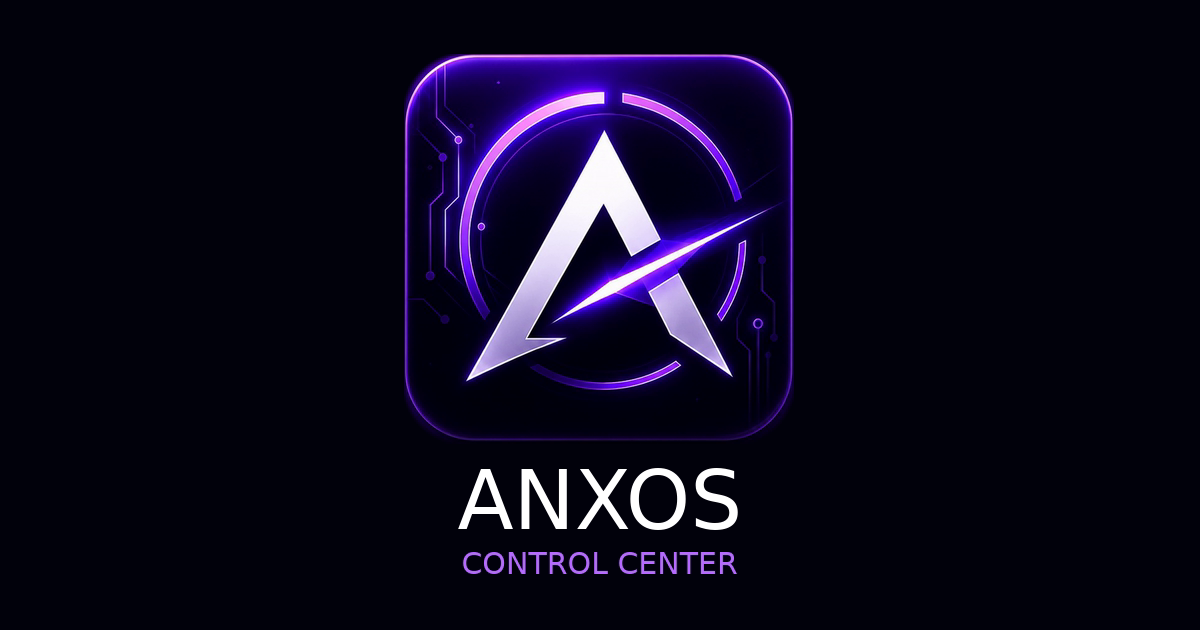
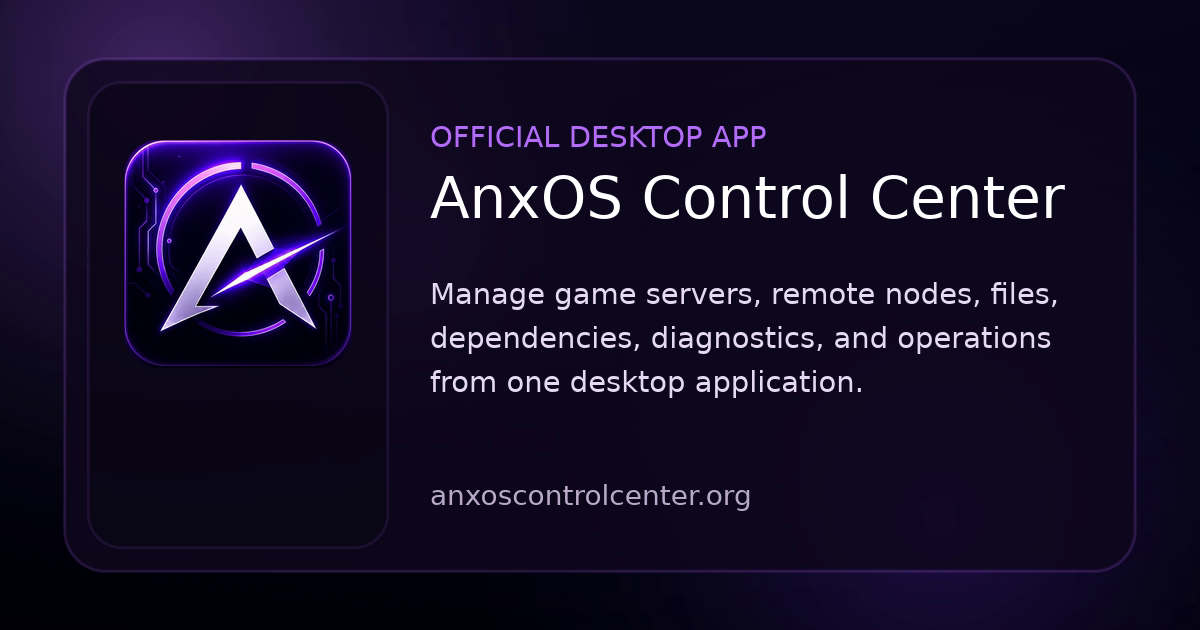
feat: improve social preview branding

diff --git a/scripts/generate-linux-icons.js b/scripts/generate-linux-icons.js
@@ -1,6 +1,7 @@
 const fs = require("fs");
 const path = require("path");
 const zlib = require("zlib");
+const crypto = require("crypto");
 const { spawnSync } = require("child_process");
 
 const REPO_ROOT = path.join(__dirname, "..");
@@ -109,6 +110,113 @@ function applyMask(pixels, size, mask) {
   return output;
 }
 
+function clamp(value, min, max) {
+  return Math.min(max, Math.max(min, value));
+}
+
+function mix(a, b, amount) {
+  return Math.round(a + ((b - a) * amount));
+}
+
+function blendPixel(pixels, width, x, y, color) {
+  if (x < 0 || y < 0 || x >= width) return;
+  const offset = (y * width + x) * 4;
+  const alpha = color[3] / 255;
+  pixels[offset] = mix(pixels[offset], color[0], alpha);
+  pixels[offset + 1] = mix(pixels[offset + 1], color[1], alpha);
+  pixels[offset + 2] = mix(pixels[offset + 2], color[2], alpha);
+  pixels[offset + 3] = 255;
+}
+
+function roundedRectCoverage(x, y, rect, radius, feather) {
+  const px = x + 0.5;
+  const py = y + 0.5;
+  const cx = clamp(px, rect.x + radius, rect.x + rect.width - radius);
+  const cy = clamp(py, rect.y + radius, rect.y + rect.height - radius);
+  const outside = Math.hypot(px - cx, py - cy) - radius;
+  if (outside <= -feather) return 1;
+  if (outside >= feather) return 0;
+  return 1 - ((outside + feather) / (feather * 2));
+}
+
+function drawRoundedRect(pixels, width, height, rect, radius, fill, stroke, strokeWidth) {
+  const minX = Math.max(0, Math.floor(rect.x - strokeWidth - 2));
+  const minY = Math.max(0, Math.floor(rect.y - strokeWidth - 2));
+  const maxX = Math.min(width - 1, Math.ceil(rect.x + rect.width + strokeWidth + 2));
+  const maxY = Math.min(height - 1, Math.ceil(rect.y + rect.height + strokeWidth + 2));
+  for (let y = minY; y <= maxY; y += 1) {
+    for (let x = minX; x <= maxX; x += 1) {
+      const outer = roundedRectCoverage(x, y, rect, radius, 1.5);
+      if (!outer) continue;
+      const innerRect = {
+        x: rect.x + strokeWidth,
+        y: rect.y + strokeWidth,
+        width: rect.width - (strokeWidth * 2),
+        height: rect.height - (strokeWidth * 2),
+      };
+      const inner = roundedRectCoverage(x, y, innerRect, Math.max(0, radius - strokeWidth), 1.5);
+      if (outer > inner) blendPixel(pixels, width, x, y, [...stroke.slice(0, 3), Math.round(stroke[3] * (outer - inner))]);
+      if (inner) blendPixel(pixels, width, x, y, [...fill.slice(0, 3), Math.round(fill[3] * inner)]);
+    }
+  }
+}
+
+function drawRadialGlow(pixels, width, height, centerX, centerY, radius, color, opacity) {
+  const minX = Math.max(0, Math.floor(centerX - radius));
+  const minY = Math.max(0, Math.floor(centerY - radius));
+  const maxX = Math.min(width - 1, Math.ceil(centerX + radius));
+  const maxY = Math.min(height - 1, Math.ceil(centerY + radius));
+  for (let y = minY; y <= maxY; y += 1) {
+    for (let x = minX; x <= maxX; x += 1) {
+      const distance = Math.hypot(x - centerX, y - centerY) / radius;
+      if (distance >= 1) continue;
+      const alpha = Math.round(opacity * ((1 - distance) ** 2) * 255);
+      blendPixel(pixels, width, x, y, [...color, alpha]);
+    }
+  }
+}
+
+function createSocialBackground(width, height) {
+  const pixels = Buffer.alloc(width * height * 4);
+  for (let y = 0; y < height; y += 1) {
+    for (let x = 0; x < width; x += 1) {
+      const offset = (y * width + x) * 4;
+      const vignette = Math.hypot((x - width / 2) / width, (y - height / 2) / height);
+      pixels[offset] = clamp(Math.round(3 + (10 * (1 - y / height)) - (vignette * 6)), 0, 255);
+      pixels[offset + 1] = clamp(Math.round(3 + (5 * (1 - y / height)) - (vignette * 4)), 0, 255);
+      pixels[offset + 2] = clamp(Math.round(13 + (20 * (1 - y / height)) - (vignette * 10)), 0, 255);
+      pixels[offset + 3] = 255;
+    }
+  }
+
+  drawRadialGlow(pixels, width, height, 160, 80, 520, [182, 108, 255], 0.32);
+  drawRadialGlow(pixels, width, height, 940, 520, 540, [124, 60, 255], 0.24);
+  drawRadialGlow(pixels, width, height, 415, 250, 250, [165, 80, 255], 0.2);
+
+  drawRoundedRect(
+    pixels,
+    width,
+    height,
+    { x: 64, y: 58, width: 1072, height: 514 },
+    42,
+    [15, 8, 30, 210],
+    [132, 74, 190, 120],
+    2,
+  );
+  drawRoundedRect(
+    pixels,
+    width,
+    height,
+    { x: 88, y: 82, width: 300, height: 466 },
+    34,
+    [8, 5, 18, 130],
+    [182, 108, 255, 90],
+    1,
+  );
+
+  return createPng(width, height, pixels);
+}
+
 function makeAppPng(size) {
   const raw = cropRaw(APP_CROP, size);
   const radius = size * 0.155;
@@ -150,22 +258,43 @@ function pngToIco(entries) {
 }
 
 function createOpenGraphImage(appIconPath, outputPath) {
+  const backgroundPath = path.join(WEBSITE_ASSET_DIR, ".social-preview-background.png");
+  fs.writeFileSync(backgroundPath, createSocialBackground(1200, 630));
   runFfmpeg([
     "-v", "error",
-    "-f", "lavfi",
-    "-i", "color=c=0x02030b:s=1200x630",
+    "-i", backgroundPath,
     "-i", appIconPath,
     "-filter_complex",
     [
-      "[1:v]scale=390:390:flags=lanczos[icon]",
-      "[0:v][icon]overlay=405:55",
-      "drawtext=text='ANXOS':fontcolor=white:fontsize=82:x=(w-text_w)/2:y=468",
-      "drawtext=text='CONTROL CENTER':fontcolor=0xb66cff:fontsize=30:x=(w-text_w)/2:y=552",
+      "[1:v]scale=228:228:flags=lanczos[logo]",
+      "[0:v][logo]overlay=124:140",
+      "drawtext=text='OFFICIAL DESKTOP APP':font='DejaVu Sans':fontcolor=0xb66cff:fontsize=29:x=430:y=126",
+      "drawtext=text='AnxOS Control Center':font='DejaVu Sans':fontcolor=white:fontsize=58:x=430:y=174",
+      "drawtext=text='Manage game servers, remote nodes, files,':font='DejaVu Sans':fontcolor=0xe7dcf4:fontsize=29:x=430:y=282",
+      "drawtext=text='dependencies, diagnostics, and operations':font='DejaVu Sans':fontcolor=0xe7dcf4:fontsize=29:x=430:y=326",
+      "drawtext=text='from one desktop application.':font='DejaVu Sans':fontcolor=0xe7dcf4:fontsize=29:x=430:y=370",
+      "drawtext=text='anxoscontrolcenter.org':font='DejaVu Sans':fontcolor=0xb9abc8:fontsize=28:x=430:y=484",
     ].join(","),
     "-frames:v", "1",
     "-y",
     outputPath,
   ], "Open Graph image");
+  fs.rmSync(backgroundPath, { force: true });
+}
+
+function updateSocialPreviewMetadata(outputPath) {
+  const hash = crypto.createHash("sha256").update(fs.readFileSync(outputPath)).digest("hex").slice(0, 12);
+  const versionedPath = `assets/social-preview.png?v=${hash}`;
+  const files = [
+    path.join(REPO_ROOT, "website", "index.html"),
+    path.join(REPO_ROOT, "website", "release-notes.html"),
+  ];
+  for (const file of files) {
+    const source = fs.readFileSync(file, "utf8");
+    const updated = source.replace(/assets\/social-preview\.png(?:\?v=[a-f0-9]+)?/g, versionedPath);
+    fs.writeFileSync(file, updated);
+  }
+  return versionedPath;
 }
 
 function writeSvgFromPng(pngPath, svgPath) {
@@ -209,6 +338,9 @@ fs.writeFileSync(path.join(REPO_ROOT, "website", "favicon.ico"), pngToIco(
   [16, 32, 48].map((size) => ({ size, png: faviconPngs.get(size) })),
 ));
 writeSvgFromPng(path.join(WEBSITE_ASSET_DIR, "icon-512.png"), path.join(WEBSITE_ASSET_DIR, "favicon.svg"));
-createOpenGraphImage(path.join(APP_ICON_DIR, "512x512.png"), path.join(WEBSITE_ASSET_DIR, "social-preview.png"));
+const socialPreviewPath = path.join(WEBSITE_ASSET_DIR, "social-preview.png");
+createOpenGraphImage(path.join(APP_ICON_DIR, "512x512.png"), socialPreviewPath);
+const socialPreviewMetadataPath = updateSocialPreviewMetadata(socialPreviewPath);
 
 console.log(`Generated Neon Core assets from ${REFERENCE_PATH}`);
+console.log(`Updated social preview metadata to ${socialPreviewMetadataPath}`);

diff --git a/website/release-notes.html b/website/release-notes.html
@@ -13,11 +13,16 @@
     <meta property="og:title" content="AnxOS Control Center Release Notes">
     <meta property="og:description" content="Release notes and download metadata for AnxOS Control Center.">
     <meta property="og:url" content="https://anxoscontrolcenter.org/release-notes.html">
-    <meta property="og:image" content="https://anxoscontrolcenter.org/assets/social-preview.png">
+    <meta property="og:image" content="https://anxoscontrolcenter.org/assets/social-preview.png?v=1bbe0a40ca77">
+    <meta property="og:image:secure_url" content="https://anxoscontrolcenter.org/assets/social-preview.png?v=1bbe0a40ca77">
+    <meta property="og:image:type" content="image/png">
+    <meta property="og:image:width" content="1200">
+    <meta property="og:image:height" content="630">
+    <meta property="og:image:alt" content="AnxOS Control Center social preview with the official AnxOS logo.">
     <meta name="twitter:card" content="summary_large_image">
     <meta name="twitter:title" content="AnxOS Control Center Release Notes">
     <meta name="twitter:description" content="Release notes and download metadata for AnxOS Control Center.">
-    <meta name="twitter:image" content="https://anxoscontrolcenter.org/assets/social-preview.png">
+    <meta name="twitter:image" content="https://anxoscontrolcenter.org/assets/social-preview.png?v=1bbe0a40ca77">
     <link rel="icon" href="/favicon.ico" sizes="any">
     <link rel="icon" type="image/svg+xml" href="assets/favicon.svg">
     <link rel="icon" type="image/png" sizes="32x32" href="assets/favicon-32.png">

diff --git a/website/index.html b/website/index.html
@@ -13,13 +13,16 @@
     <meta property="og:title" content="AnxOS Control Center">
     <meta property="og:description" content="Manage game servers, remote nodes, files, dependencies, diagnostics, and operations from one desktop application.">
     <meta property="og:url" content="https://anxoscontrolcenter.org/">
-    <meta property="og:image" content="https://anxoscontrolcenter.org/assets/social-preview.png">
+    <meta property="og:image" content="https://anxoscontrolcenter.org/assets/social-preview.png?v=1bbe0a40ca77">
+    <meta property="og:image:secure_url" content="https://anxoscontrolcenter.org/assets/social-preview.png?v=1bbe0a40ca77">
+    <meta property="og:image:type" content="image/png">
     <meta property="og:image:width" content="1200">
     <meta property="og:image:height" content="630">
+    <meta property="og:image:alt" content="AnxOS Control Center social preview with the official AnxOS logo.">
     <meta name="twitter:card" content="summary_large_image">
     <meta name="twitter:title" content="AnxOS Control Center">
     <meta name="twitter:description" content="Manage game servers, remote nodes, files, dependencies, diagnostics, and operations from one desktop application.">
-    <meta name="twitter:image" content="https://anxoscontrolcenter.org/assets/social-preview.png">
+    <meta name="twitter:image" content="https://anxoscontrolcenter.org/assets/social-preview.png?v=1bbe0a40ca77">
     <link rel="icon" href="/favicon.ico" sizes="any">
     <link rel="icon" type="image/svg+xml" href="assets/favicon.svg">
     <link rel="icon" type="image/png" sizes="32x32" href="assets/favicon-32.png">